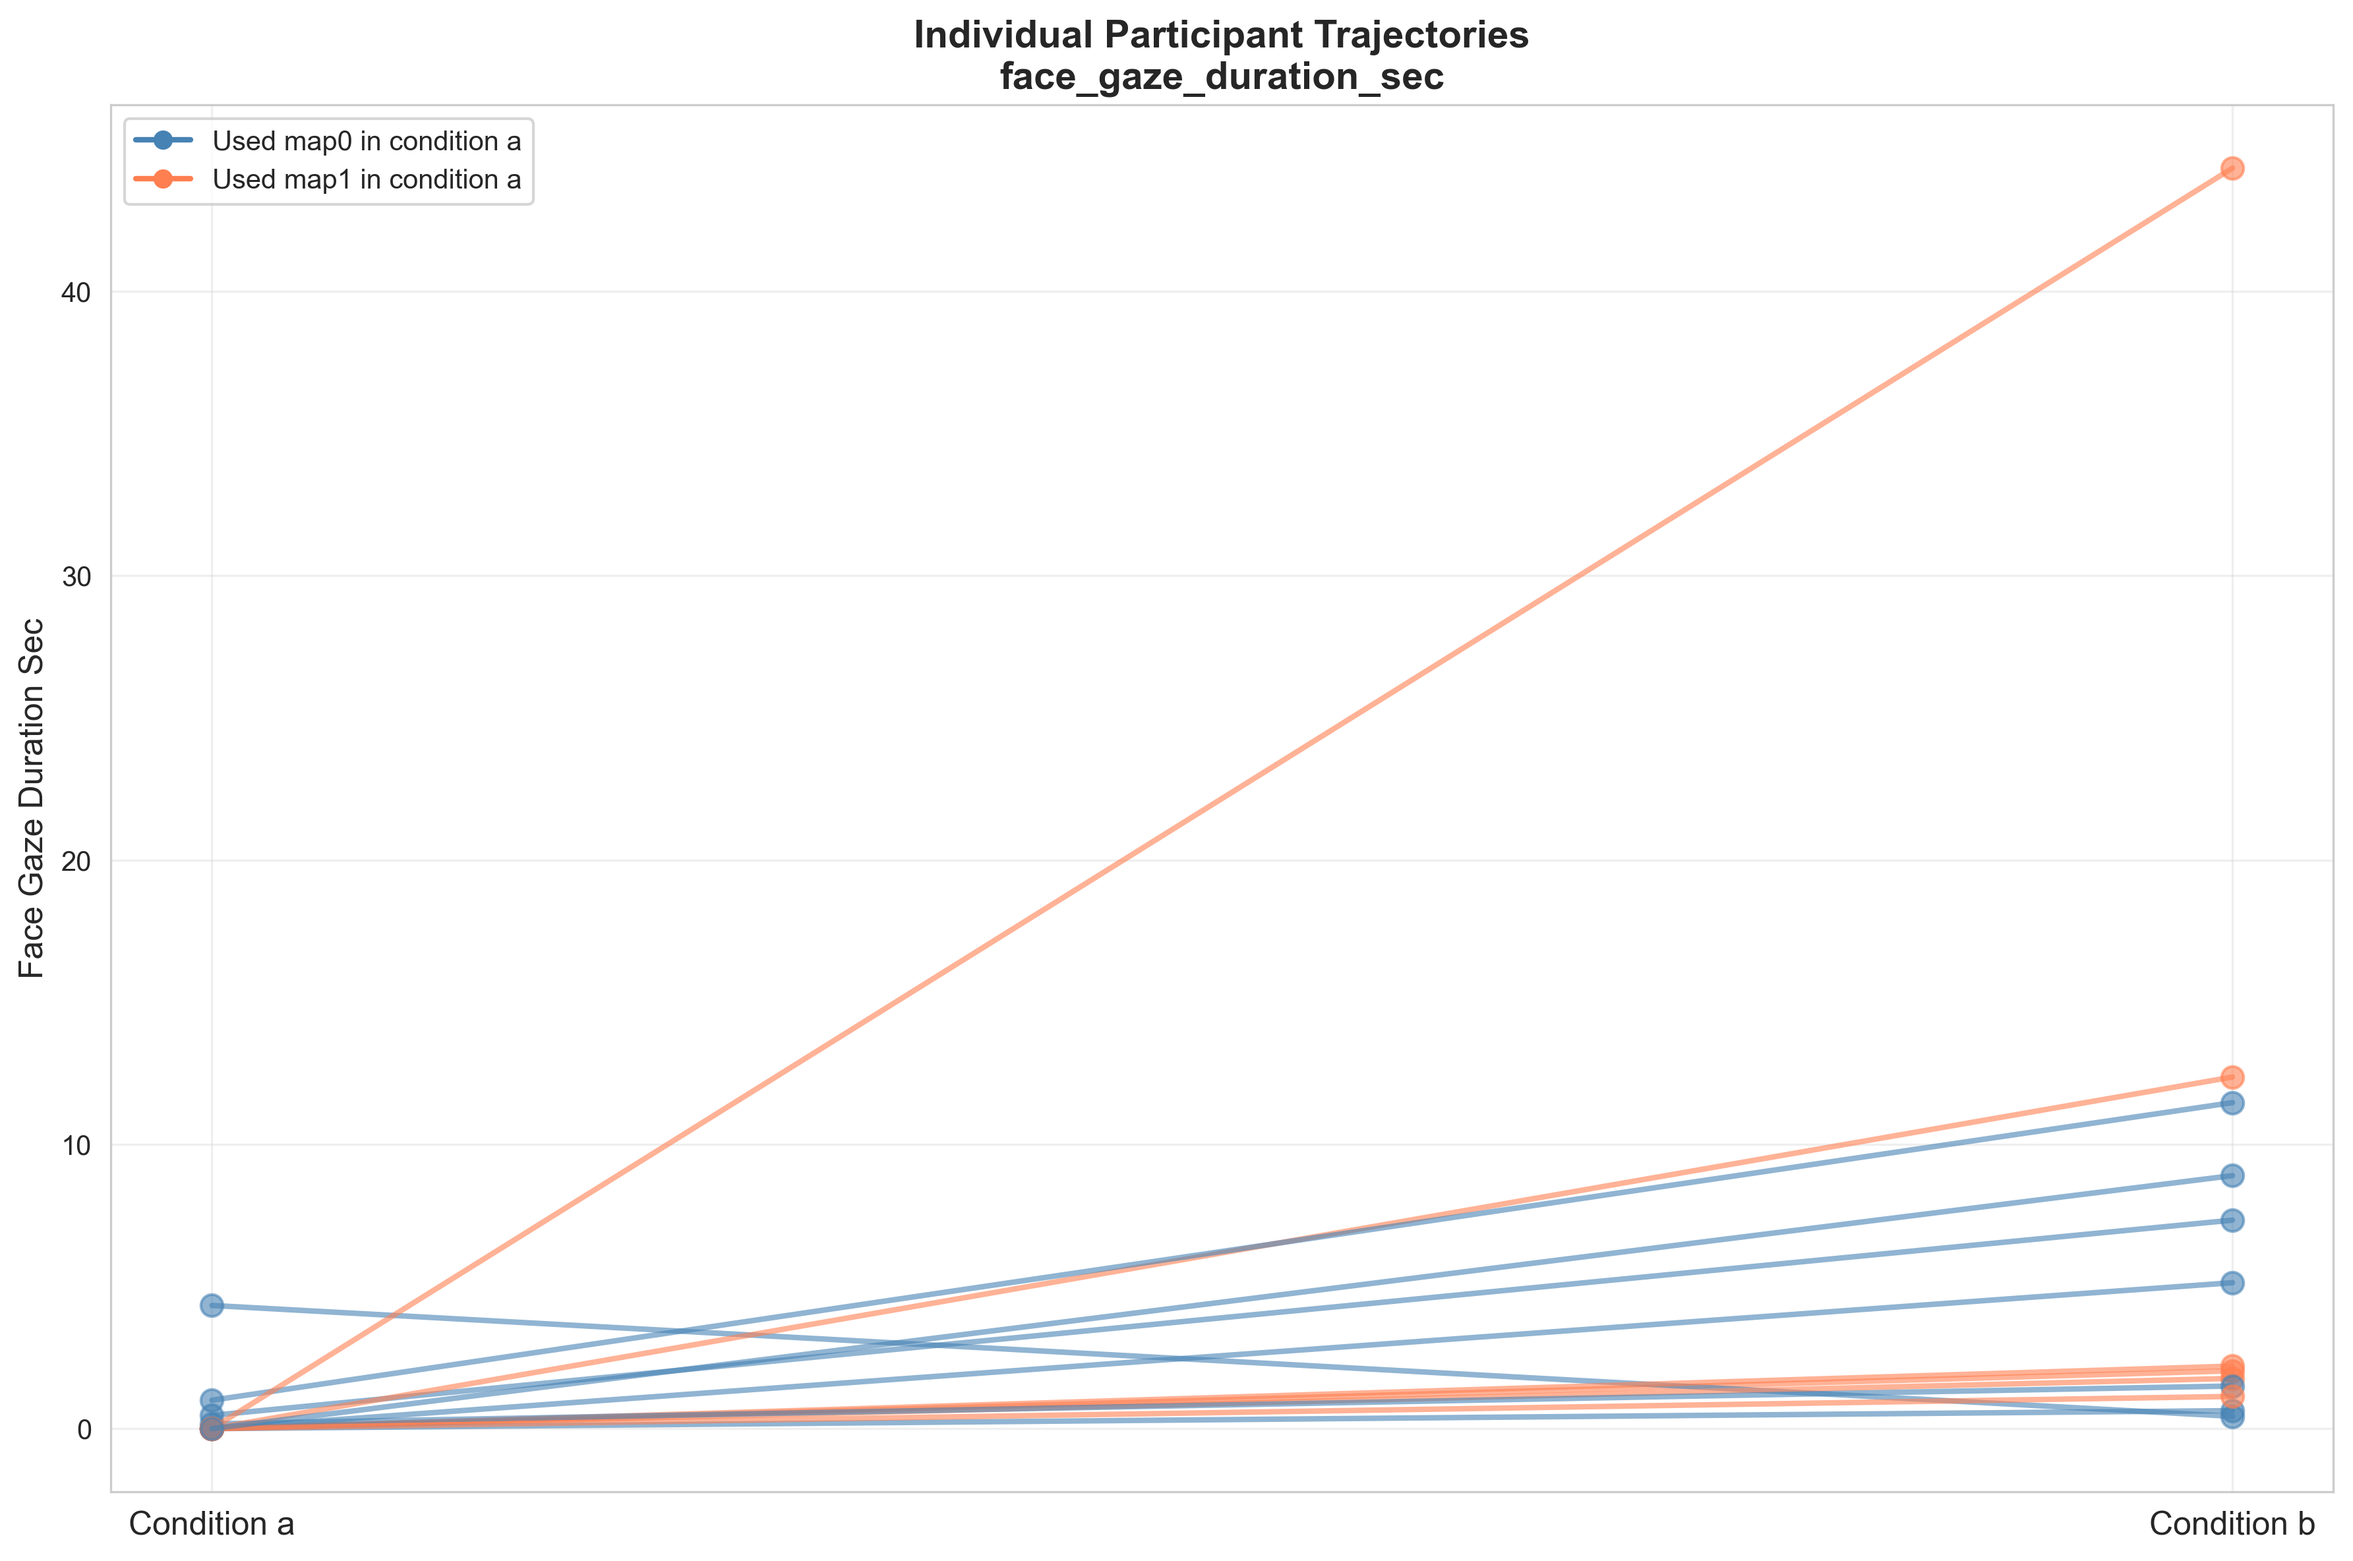
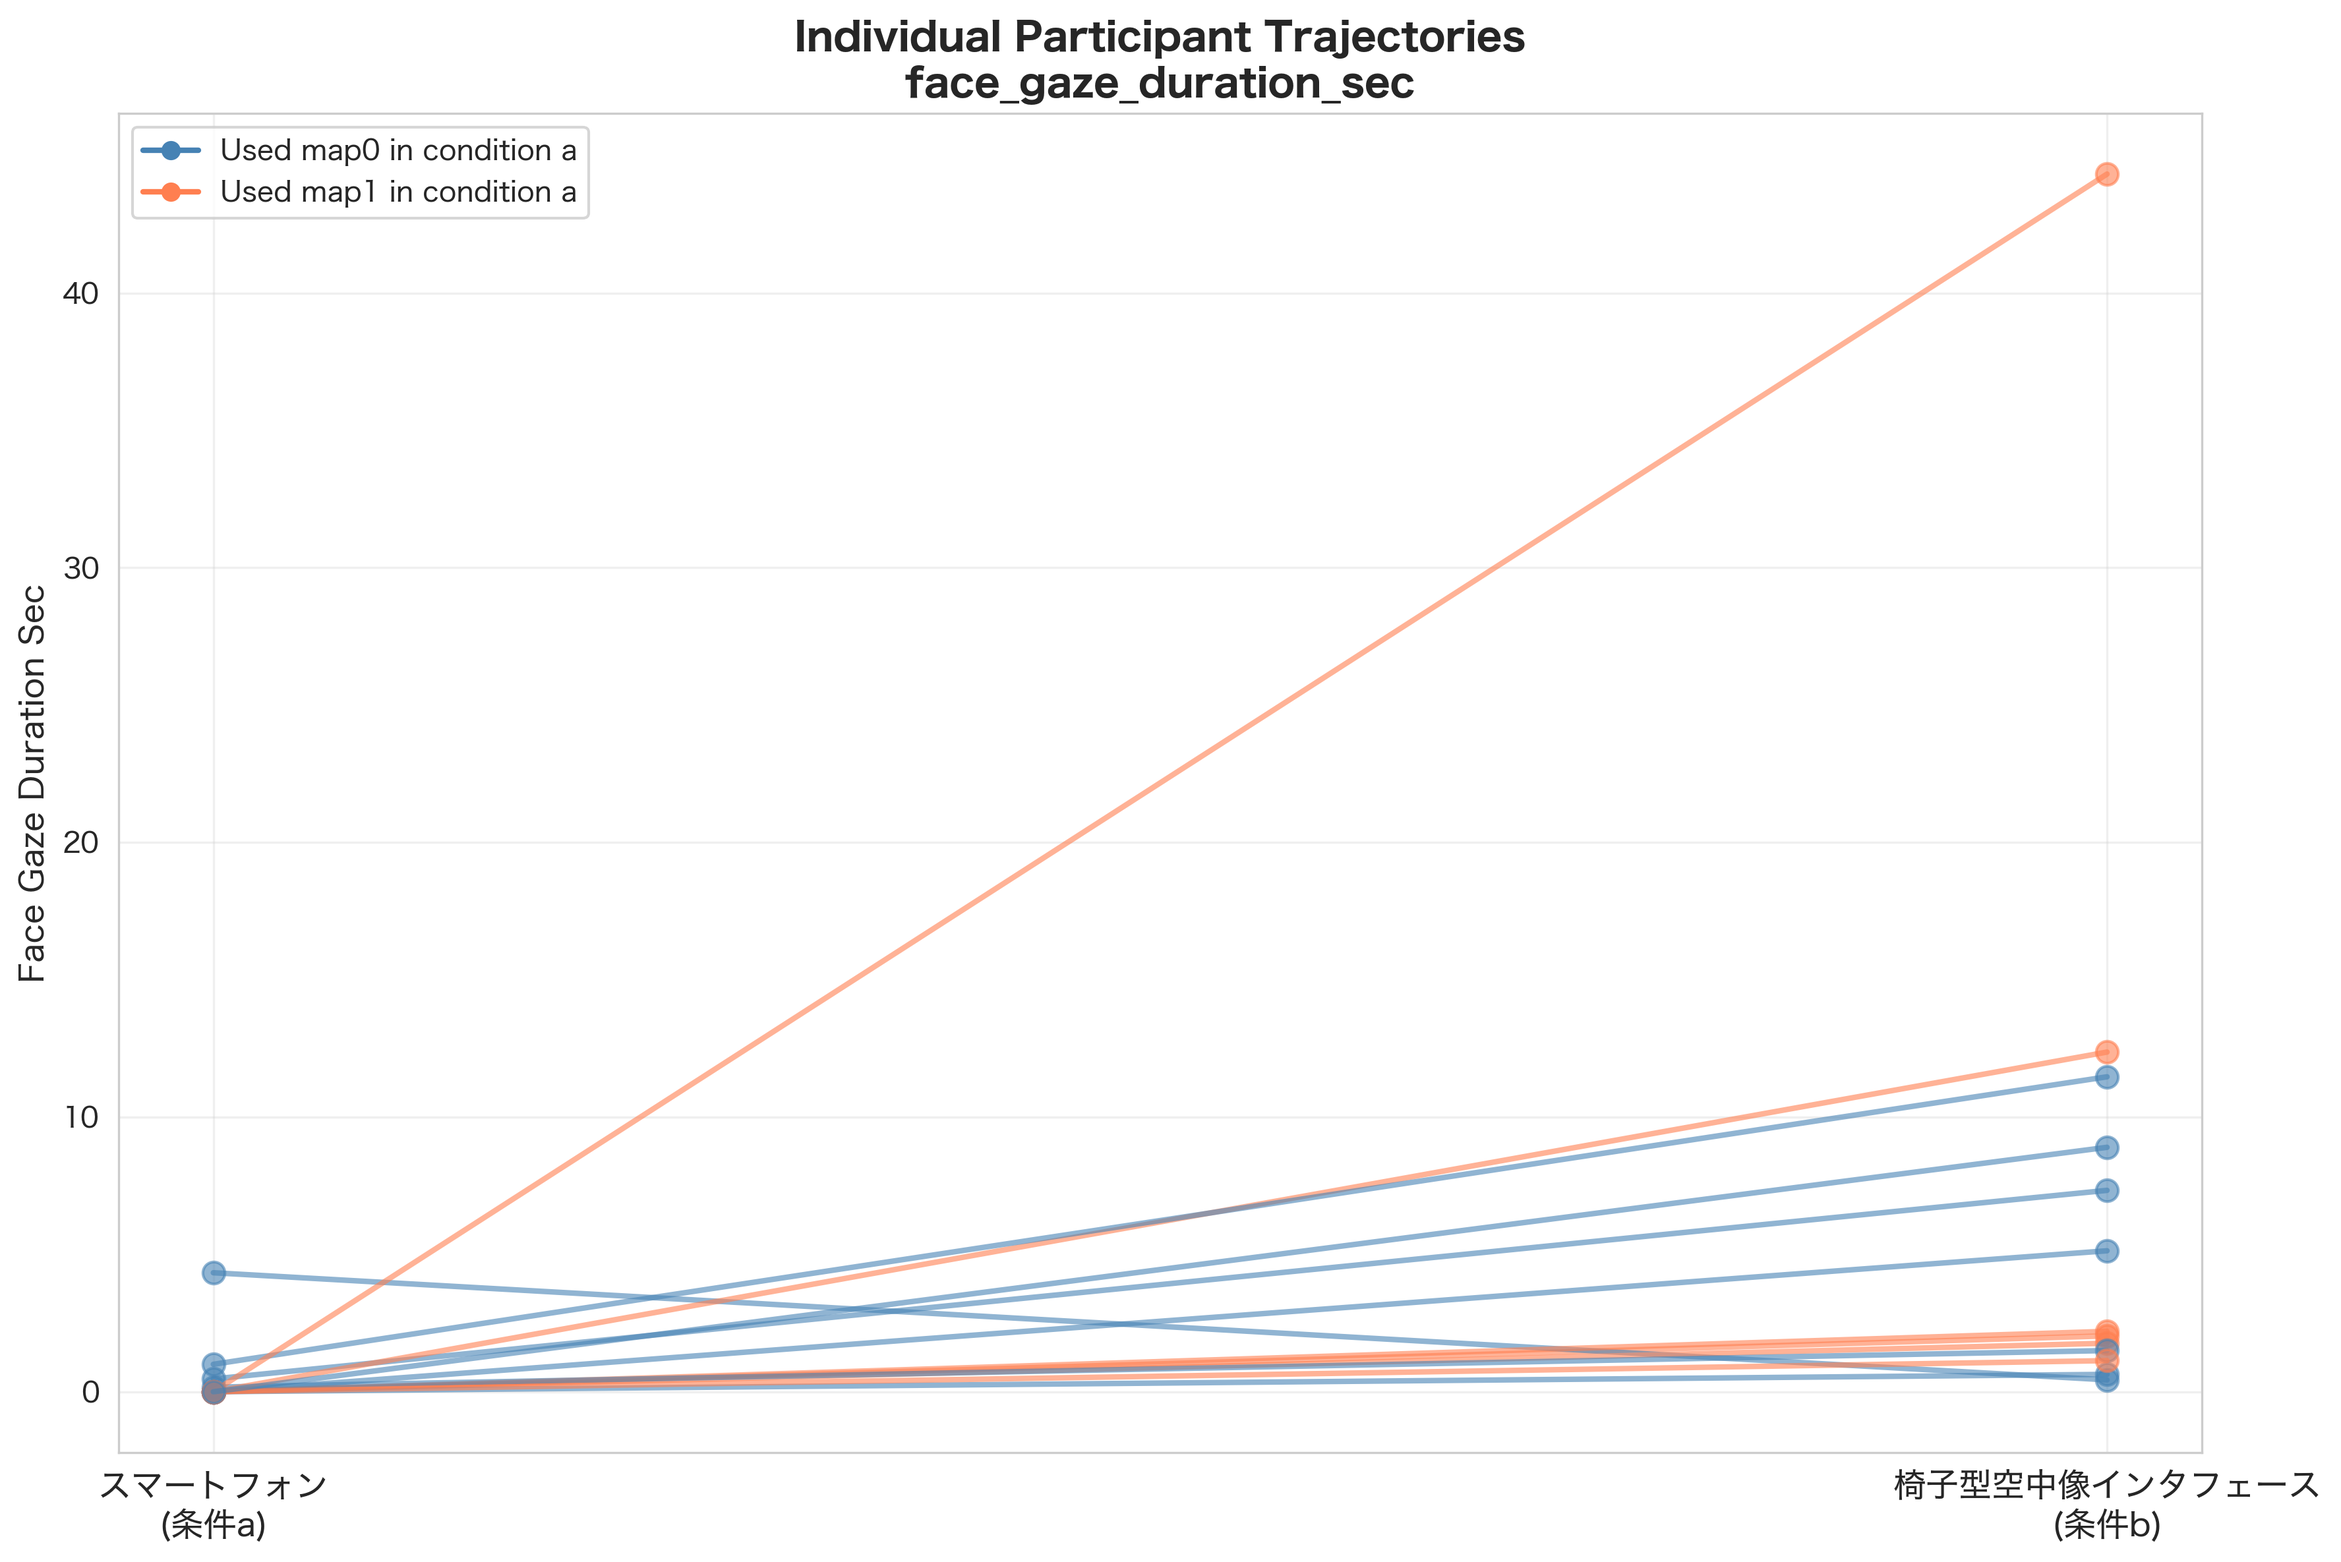
fix: グラフ修正

diff --git a/project/src/analysis/questionnaire_analysis.py b/project/src/analysis/questionnaire_analysis.py
@@ -622,9 +622,9 @@ class QuestionnaireAnalyzer:
             add_significance_brackets(ax, p_value, 0, 1, y_max, height_increment=0.5)
 
             # Labels and formatting
-            ax.set_title(f"{item_jp}\n(1: 否定的, 7: 肯定的)", fontsize=11, fontweight='bold')
+            ax.set_title(f"{item_jp}\n(1: そう思わない, 7: そう思う)", fontsize=11, fontweight='bold')
             ax.set_xticks([0, 1])
-            ax.set_xticklabels(['Condition A', 'Condition B'])
+            ax.set_xticklabels(['スマートフォン\n(条件A)', '椅子型空中像インタフェース\n(条件B)'])
             ax.set_ylabel('Rating', fontsize=10)
             ax.set_ylim(0.5, 7.5)
             ax.grid(True, alpha=0.3, axis='y')
@@ -668,9 +668,9 @@ class QuestionnaireAnalyzer:
             add_significance_brackets(ax, p_value, 0, 1, y_max, height_increment=0.5)
 
             # Labels and formatting
-            ax.set_title(f"{item_jp}\n(1: 否定的, 7: 肯定的)", fontsize=11, fontweight='bold')
+            ax.set_title(f"{item_jp}\n(1: そう思わない, 7: そう思う)", fontsize=11, fontweight='bold')
             ax.set_xticks([0, 1])
-            ax.set_xticklabels(['Condition A', 'Condition B'])
+            ax.set_xticklabels(['スマートフォン\n(条件A)', '椅子型空中像インタフェース\n(条件B)'])
             ax.set_ylabel('Rating', fontsize=10)
             ax.set_ylim(0.5, 7.5)
             ax.grid(True, alpha=0.3, axis='y')
@@ -748,16 +748,16 @@ class QuestionnaireAnalyzer:
             capprops=dict(linewidth=1.5)
         )
 
-        # Add connected individual points (showing pairing)
-        for participant in self.df_sus_scores['participant'].unique():
-            part_data = self.df_sus_scores[self.df_sus_scores['participant'] == participant]
-            score_a = part_data[part_data['condition'] == 'A']['sus_score'].values[0]
-            score_b = part_data[part_data['condition'] == 'B']['sus_score'].values[0]
-            ax.plot([0, 1], [score_a, score_b], 'o-', alpha=0.4, color='gray', linewidth=1)
+        # Connection lines removed per user request
+        # for participant in self.df_sus_scores['participant'].unique():
+        #     part_data = self.df_sus_scores[self.df_sus_scores['participant'] == participant]
+        #     score_a = part_data[part_data['condition'] == 'A']['sus_score'].values[0]
+        #     score_b = part_data[part_data['condition'] == 'B']['sus_score'].values[0]
+        #     ax.plot([0, 1], [score_a, score_b], 'o-', alpha=0.4, color='gray', linewidth=1)
 
-        # Add benchmark line
-        ax.axhline(y=68, color='blue', linestyle='--', linewidth=2, alpha=0.7, label='Benchmark (68)')
-        ax.axhline(y=70, color='green', linestyle='--', linewidth=2, alpha=0.7, label='Good (≥70)')
+        # Benchmark lines removed per user request
+        # ax.axhline(y=68, color='blue', linestyle='--', linewidth=2, alpha=0.7, label='Benchmark (68)')
+        # ax.axhline(y=70, color='green', linestyle='--', linewidth=2, alpha=0.7, label='Good (≥70)')
 
         # Add significance brackets
         p_value = self.results['sus']['comparison']['p_value']
@@ -768,10 +768,10 @@ class QuestionnaireAnalyzer:
         ax.set_title('SUS Scores by Condition\n(System Usability Scale: 0-100)',
                     fontsize=14, fontweight='bold')
         ax.set_xticks([0, 1])
-        ax.set_xticklabels(['Condition A\n(Smartphone)', 'Condition B\n(Half-mirror)'], fontsize=11)
+        ax.set_xticklabels(['スマートフォン\n(条件A)', '椅子型空中像インタフェース\n(条件B)'], fontsize=11)
         ax.set_ylabel('SUS Score', fontsize=12)
         ax.set_ylim(0, 100)
-        ax.legend(loc='upper left')
+        # ax.legend(loc='upper left')  # Legend removed since no benchmark lines
         ax.grid(True, alpha=0.3, axis='y')
 
         plt.tight_layout()
@@ -849,19 +849,19 @@ class QuestionnaireAnalyzer:
             ax.text(i, mean + std + 2, f'{mean:.1f}', ha='center', va='bottom',
                    fontsize=12, fontweight='bold')
 
-        # Add benchmark lines
-        ax.axhline(y=68, color='blue', linestyle='--', linewidth=2, alpha=0.5, label='Benchmark (68)')
-        ax.axhline(y=70, color='green', linestyle='--', linewidth=2, alpha=0.5, label='Good (≥70)')
-        ax.axhline(y=50, color='red', linestyle='--', linewidth=2, alpha=0.5, label='Poor (<50)')
+        # Benchmark lines removed per user request
+        # ax.axhline(y=68, color='blue', linestyle='--', linewidth=2, alpha=0.5, label='Benchmark (68)')
+        # ax.axhline(y=70, color='green', linestyle='--', linewidth=2, alpha=0.5, label='Good (≥70)')
+        # ax.axhline(y=50, color='red', linestyle='--', linewidth=2, alpha=0.5, label='Poor (<50)')
 
         # Labels and formatting
         ax.set_title('Mean SUS Scores by Condition\n(Error bars = ±1 SD)',
                     fontsize=14, fontweight='bold')
         ax.set_xticks([0, 1])
-        ax.set_xticklabels(['Condition A\n(Smartphone)', 'Condition B\n(Half-mirror)'], fontsize=11)
+        ax.set_xticklabels(['スマートフォン\n(条件A)', '椅子型空中像インタフェース\n(条件B)'], fontsize=11)
         ax.set_ylabel('Mean SUS Score', fontsize=12)
         ax.set_ylim(0, 100)
-        ax.legend(loc='upper left')
+        # ax.legend(loc='upper left')  # Legend removed since no benchmark lines
         ax.grid(True, alpha=0.3, axis='y')
 
         plt.tight_layout()
@@ -1211,7 +1211,7 @@ class QuestionnaireAnalyzer:
         self.plot_likert_boxplots()
         self.plot_likert_heatmap()
         self.plot_sus_boxplot()
-        self.plot_sus_trajectories()
+        # self.plot_sus_trajectories()  # Disabled: trajectory lines not needed
         self.plot_sus_comparison()
 
         # Save results

diff --git a/project/src/analysis/nasatlx_main_experiment_analysis.py b/project/src/analysis/nasatlx_main_experiment_analysis.py
@@ -564,6 +564,9 @@ class NASATLXAnalyzer:
         ax.set_title('NASA-TLX Total Score by Condition', fontsize=12, fontweight='bold')
         ax.set_xlabel('Condition', fontsize=11)
         ax.set_ylabel('NASA-TLX Total Score (0-100, lower is better)', fontsize=11)
+        ax.set_xticks([0, 1])
+        ax.set_xticklabels(['スマートフォン\n(条件a)', '椅子型空中像インタフェース\n(条件b)'], fontsize=11)
+        ax.set_ylim(0, 100)
         ax.grid(True, alpha=0.3, axis='y')
 
         plt.tight_layout()
@@ -585,6 +588,7 @@ class NASATLXAnalyzer:
         ax.set_xlabel('Condition × Map', fontsize=11)
         ax.set_ylabel('NASA-TLX Total Score', fontsize=11)
         ax.set_xticklabels(['a (map0)', 'a (map1)', 'b (map0)', 'b (map1)'])
+        ax.set_ylim(0, 100)
         ax.grid(True, alpha=0.3, axis='y')
 
         plt.tight_layout()
@@ -636,9 +640,10 @@ class NASATLXAnalyzer:
         ax.legend(handles=legend_elements, loc='best', fontsize=10)
 
         ax.set_xticks([0, 1])
-        ax.set_xticklabels(['Condition a', 'Condition b'], fontsize=12)
+        ax.set_xticklabels(['スマートフォン\n(条件a)', '椅子型空中像インタフェース\n(条件b)'], fontsize=12)
         ax.set_ylabel('NASA-TLX Total Score (lower is better)', fontsize=12)
         ax.set_title('Individual Participant Trajectories\nNASA-TLX Total Score', fontsize=14, fontweight='bold')
+        ax.set_ylim(0, 100)
         ax.grid(True, alpha=0.3)
         ax.axhline(y=50, color='gray', linestyle='--', alpha=0.5, label='Mid-point (50)')
 
@@ -663,6 +668,7 @@ class NASATLXAnalyzer:
         ax.set_xlabel('Condition', fontsize=12)
         ax.set_ylabel('NASA-TLX Total Score (0-100, lower is better)', fontsize=12)
         ax.set_title('Distribution of NASA-TLX Total Score by Condition', fontsize=14, fontweight='bold')
+        ax.set_ylim(0, 100)
         ax.grid(True, alpha=0.3, axis='y')
 
         plt.tight_layout()

diff --git a/project/src/analysis/main_experiment_analysis.py b/project/src/analysis/main_experiment_analysis.py
@@ -30,6 +30,9 @@ warnings.filterwarnings('ignore')
 sns.set_style("whitegrid")
 plt.rcParams['figure.figsize'] = (12, 8)
 plt.rcParams['font.size'] = 10
+# Japanese font support
+plt.rcParams['font.sans-serif'] = ['Hiragino Sans', 'Yu Gothic', 'Meirio', 'DejaVu Sans']
+plt.rcParams['axes.unicode_minus'] = False
 
 
 class MainExperimentAnalyzer:
@@ -682,6 +685,8 @@ class MainExperimentAnalyzer:
         ax.set_title(f'Condition Comparison\n{dv}', fontsize=12, fontweight='bold')
         ax.set_xlabel('Condition', fontsize=11)
         ax.set_ylabel(dv.replace('_', ' ').title(), fontsize=11)
+        ax.set_xticks([0, 1])
+        ax.set_xticklabels(['スマートフォン\n(条件a)', '椅子型空中像インタフェース\n(条件b)'], fontsize=11)
         ax.grid(True, alpha=0.3, axis='y')
 
         plt.tight_layout()
@@ -757,7 +762,7 @@ class MainExperimentAnalyzer:
         ax.legend(handles=legend_elements, loc='best', fontsize=10)
 
         ax.set_xticks([0, 1])
-        ax.set_xticklabels(['Condition a', 'Condition b'], fontsize=12)
+        ax.set_xticklabels(['スマートフォン\n(条件a)', '椅子型空中像インタフェース\n(条件b)'], fontsize=12)
         ax.set_ylabel(dv.replace('_', ' ').title(), fontsize=12)
         ax.set_title(f'Individual Participant Trajectories\n{dv}', fontsize=14, fontweight='bold')
         ax.grid(True, alpha=0.3)

diff --git a/project/output/main_expt_questionnaire_results/analysis_report.md b/project/output/main_expt_questionnaire_results/analysis_report.md
@@ -7,7 +7,7 @@
 - **Questionnaire Components**:
   - 6 Likert scale items (7-point scale): Task/translation evaluation
   - 10 SUS questions (5-point scale): System usability
-- **Analysis Date**: 2026-02-03 23:48:01
+- **Analysis Date**: 2026-02-04 09:44:41
 
 ## Part 1: Task/Translation Evaluation (Likert Scale)
 
@@ -209,4 +209,4 @@ No significant difference in usability between conditions was found. Both condit
 - No significant difference in overall system usability (p = 0.5295)
 
 ---
-Generated by questionnaire_analysis.py on 2026-02-03 23:48:01
+Generated by questionnaire_analysis.py on 2026-02-04 09:44:41

diff --git a/project/output/nasa-tlx/analysis_results/analysis_report.md b/project/output/nasa-tlx/analysis_results/analysis_report.md
@@ -5,7 +5,7 @@
 - **実験デザイン**: 2条件被験者内（condition: a, b）
 - **参加者数**: 13名
 - **評価指標**: NASA-TLX Total Score (0-100, 低い方が良い)
-- **分析実行日**: 2026-02-03 23:47:44
+- **分析実行日**: 2026-02-04 09:52:53
 
 ## カウンターバランシング
 
@@ -110,4 +110,4 @@ python project/src/analysis/nasatlx_main_experiment_analysis.py
 ```
 
 ---
-Generated by nasatlx_main_experiment_analysis.py on 2026-02-03 23:47:44
+Generated by nasatlx_main_experiment_analysis.py on 2026-02-04 09:52:53

diff --git a/project/output/csv/main/analysis_results/analysis_report.md b/project/output/csv/main/analysis_results/analysis_report.md
@@ -6,7 +6,7 @@
 - **参加者数**: 13名
 - **従属変数**: total_duration_sec, face_gaze_duration_sec
 - **データ収集日**: 20251223_140933 〜 20251226_160150
-- **分析実行日**: 2026-02-03 23:46:34
+- **分析実行日**: 2026-02-04 09:58:19
 
 ## カウンターバランシング
 
@@ -185,4 +185,4 @@ python project/src/analysis/main_experiment_analysis.py
 ```
 
 ---
-Generated by main_experiment_analysis.py on 2026-02-03 23:46:34
+Generated by main_experiment_analysis.py on 2026-02-04 09:58:19
